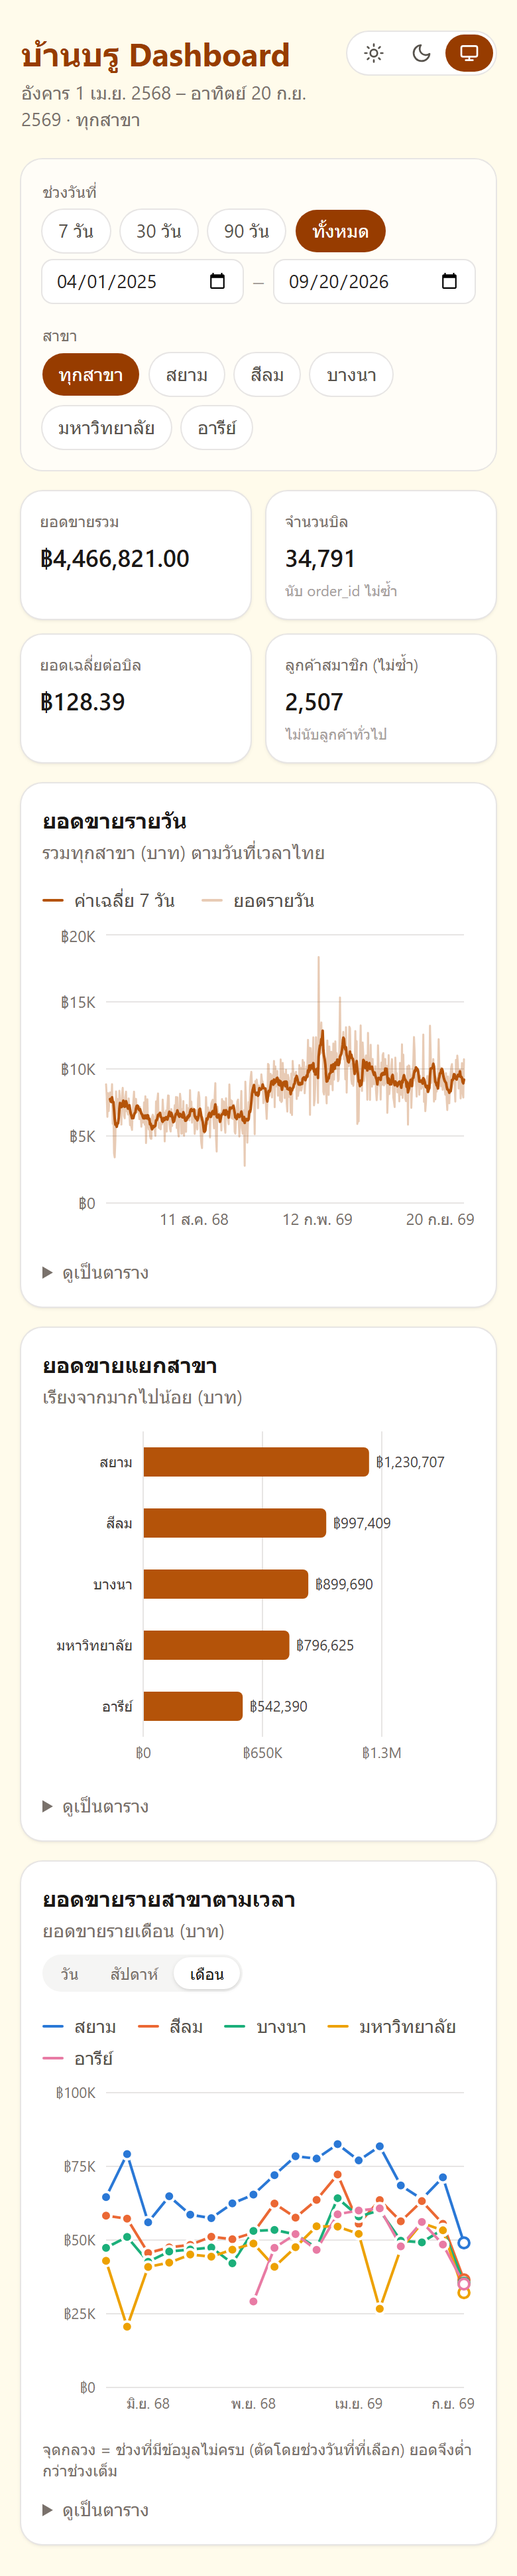
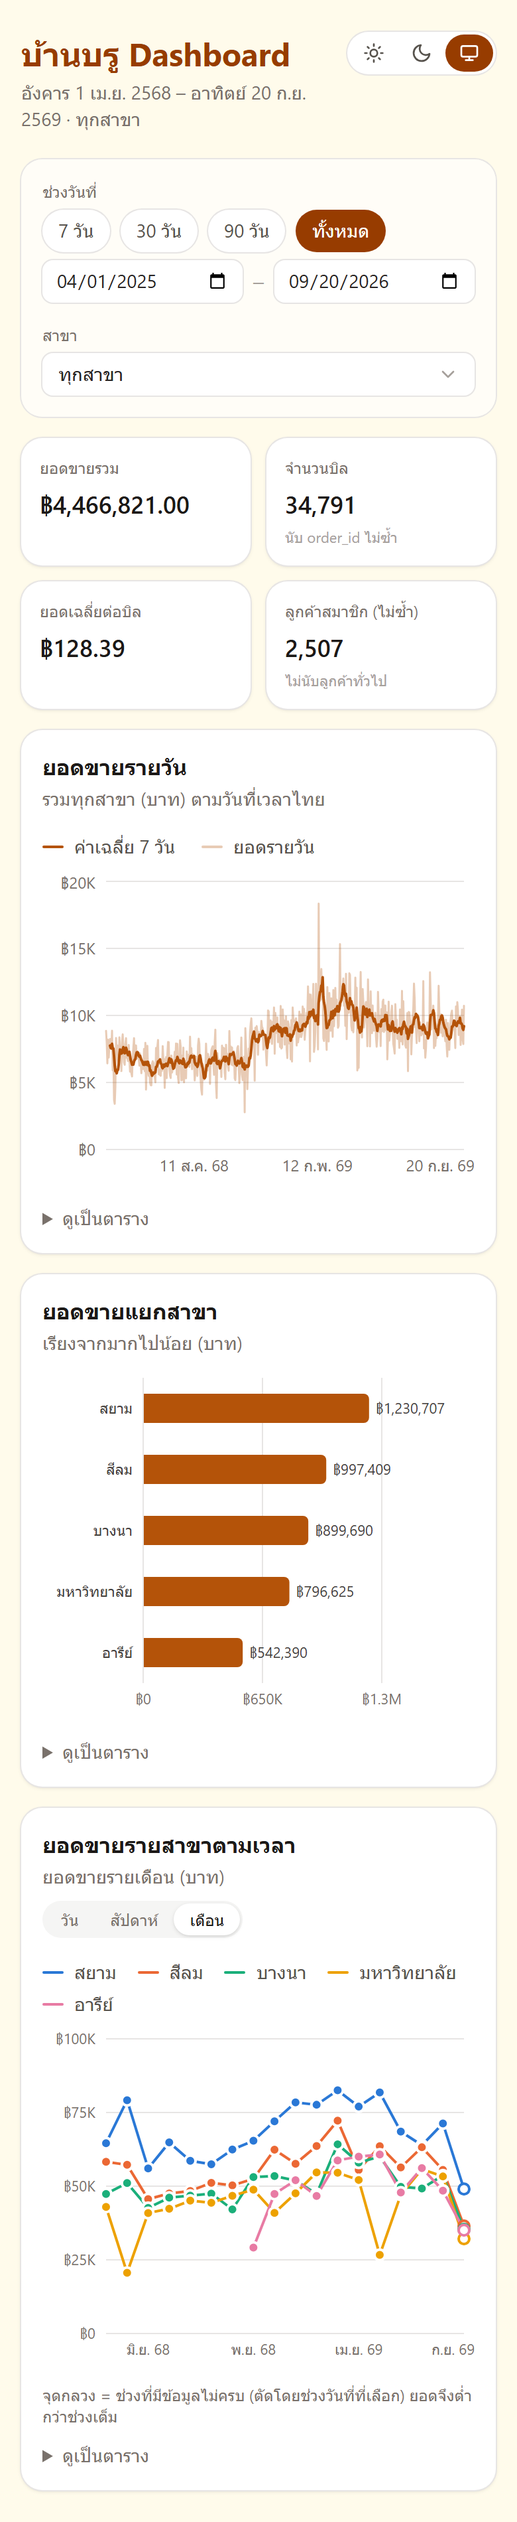
Replace branch filter chips with a multi-select listbox
- New BranchListbox: button shows the selection ("ทุกสาขา",
  "สยาม, สีลม" or "3 สาขา") and opens a checkbox list
- ARIA listbox pattern with aria-multiselectable and
  aria-activedescendant; arrow keys, Space/Enter, Home/End,
  Esc/Tab close, click outside closes
- Colour dot per branch matches its line in the over-time chart
- Selecting every branch collapses back to "ทุกสาขา"
- Refresh README screenshots and feature notes

diff --git a/src/components/BranchListbox.jsx b/src/components/BranchListbox.jsx
@@ -1,0 +1,195 @@
+import { useEffect, useId, useRef, useState } from 'react'
+import { useChartTheme } from '../lib/chartTheme'
+
+// ตัวเลือกสาขาแบบ listbox เลือกได้หลายสาขา (ตามแบบ ARIA listbox + aria-multiselectable)
+// - ปุ่มแสดงสิ่งที่เลือกอยู่ กดแล้วเปิดรายการ
+// - แป้นพิมพ์: ↑/↓ เลื่อน, Space/Enter เลือก/ยกเลิก, Home/End ไปต้น/ท้าย, Esc หรือ Tab ปิด
+// - selected ว่าง = ทุกสาขา
+function BranchListbox({ branches, selected, onChange }) {
+  const id = useId()
+  const theme = useChartTheme()
+  const [open, setOpen] = useState(false)
+  const [active, setActive] = useState(0) // index ใน options (0 = ทุกสาขา)
+  const rootRef = useRef(null)
+  const buttonRef = useRef(null)
+  const listRef = useRef(null)
+
+  const selectedSet = new Set(selected)
+  const options = [{ value: null, label: 'ทุกสาขา' }, ...branches.map((b) => ({ value: b, label: b }))]
+  const isSelected = (opt) => (opt.value === null ? selected.length === 0 : selectedSet.has(opt.value))
+  const optionId = (i) => `${id}-opt-${i}`
+
+  const summary =
+    selected.length === 0 ? 'ทุกสาขา' : selected.length <= 2 ? selected.join(', ') : `${selected.length} สาขา`
+
+  const toggle = (opt) => {
+    if (opt.value === null) return onChange([])
+    const next = new Set(selectedSet)
+    if (next.has(opt.value)) next.delete(opt.value)
+    else next.add(opt.value)
+    // เลือกครบทุกสาขา = เท่ากับ "ทุกสาขา"; เรียงตามลำดับรายชื่อเสมอ
+    onChange(next.size === branches.length ? [] : branches.filter((b) => next.has(b)))
+  }
+
+  const openList = (startAt = 0) => {
+    setActive(startAt)
+    setOpen(true)
+  }
+  const closeList = ({ focusButton = true } = {}) => {
+    setOpen(false)
+    if (focusButton) buttonRef.current?.focus()
+  }
+
+  // เปิดแล้วย้ายโฟกัสไปที่รายการ
+  useEffect(() => {
+    if (open) listRef.current?.focus()
+  }, [open])
+
+  // ให้ตัวเลือกที่ active มองเห็นเสมอ (กรณีรายการยาวจนต้องเลื่อน)
+  useEffect(() => {
+    if (open) document.getElementById(`${id}-opt-${active}`)?.scrollIntoView({ block: 'nearest' })
+  }, [open, active, id])
+
+  // คลิกนอกกล่อง → ปิด
+  useEffect(() => {
+    if (!open) return
+    const onPointerDown = (e) => {
+      if (!rootRef.current?.contains(e.target)) closeList({ focusButton: false })
+    }
+    document.addEventListener('pointerdown', onPointerDown)
+    return () => document.removeEventListener('pointerdown', onPointerDown)
+  }, [open])
+
+  const onButtonKeyDown = (e) => {
+    if (e.key === 'ArrowDown' || e.key === 'ArrowUp') {
+      e.preventDefault()
+      openList(e.key === 'ArrowUp' ? options.length - 1 : 0)
+    }
+  }
+
+  const onListKeyDown = (e) => {
+    const last = options.length - 1
+    switch (e.key) {
+      case 'ArrowDown':
+        e.preventDefault()
+        setActive((i) => Math.min(i + 1, last))
+        break
+      case 'ArrowUp':
+        e.preventDefault()
+        setActive((i) => Math.max(i - 1, 0))
+        break
+      case 'Home':
+        e.preventDefault()
+        setActive(0)
+        break
+      case 'End':
+        e.preventDefault()
+        setActive(last)
+        break
+      case ' ':
+      case 'Enter':
+        e.preventDefault()
+        toggle(options[active])
+        break
+      case 'Escape':
+        e.preventDefault()
+        closeList()
+        break
+      case 'Tab':
+        closeList({ focusButton: false })
+        break
+    }
+  }
+
+  return (
+    <div ref={rootRef} className="relative w-full sm:w-64">
+      <button
+        ref={buttonRef}
+        type="button"
+        aria-haspopup="listbox"
+        aria-expanded={open}
+        aria-controls={`${id}-list`}
+        aria-label={`สาขา: ${summary}`}
+        onClick={() => (open ? closeList() : openList())}
+        onKeyDown={onButtonKeyDown}
+        className="flex w-full items-center justify-between gap-2 rounded-lg bg-white px-3 py-1.5 text-left text-sm text-stone-800 ring-1 ring-stone-200 hover:bg-stone-50 focus:outline-none focus-visible:ring-2 focus-visible:ring-amber-700 dark:bg-stone-900 dark:text-stone-100 dark:ring-stone-700 dark:hover:bg-stone-800 dark:focus-visible:ring-amber-600"
+      >
+        <span className="truncate">{summary}</span>
+        <svg
+          width="16"
+          height="16"
+          viewBox="0 0 24 24"
+          fill="none"
+          stroke="currentColor"
+          strokeWidth="2"
+          strokeLinecap="round"
+          strokeLinejoin="round"
+          aria-hidden="true"
+          className={`shrink-0 text-stone-400 transition-transform ${open ? 'rotate-180' : ''}`}
+        >
+          <path d="m6 9 6 6 6-6" />
+        </svg>
+      </button>
+
+      {open && (
+        <ul
+          ref={listRef}
+          id={`${id}-list`}
+          role="listbox"
+          aria-label="เลือกสาขา"
+          aria-multiselectable="true"
+          aria-activedescendant={optionId(active)}
+          tabIndex={-1}
+          onKeyDown={onListKeyDown}
+          className="absolute z-20 mt-1 max-h-72 w-full overflow-auto rounded-lg bg-white py-1 text-sm shadow-lg ring-1 ring-stone-200 focus:outline-none dark:bg-stone-800 dark:shadow-black/40 dark:ring-stone-700"
+        >
+          {options.map((opt, i) => {
+            const checked = isSelected(opt)
+            return (
+              <li
+                key={opt.label}
+                id={optionId(i)}
+                role="option"
+                aria-selected={checked}
+                onPointerMove={() => setActive(i)}
+                onClick={() => {
+                  setActive(i)
+                  toggle(opt)
+                }}
+                className={`flex cursor-pointer items-center gap-2.5 px-3 py-2 ${
+                  i === active ? 'bg-stone-100 dark:bg-stone-700' : ''
+                } ${i === 0 ? 'border-b border-stone-100 dark:border-stone-700' : ''}`}
+              >
+                <span
+                  aria-hidden="true"
+                  className={`flex size-4 shrink-0 items-center justify-center rounded border ${
+                    checked
+                      ? 'border-amber-800 bg-amber-800 text-white dark:border-amber-600 dark:bg-amber-600 dark:text-stone-950'
+                      : 'border-stone-300 dark:border-stone-500'
+                  }`}
+                >
+                  {checked && (
+                    <svg width="12" height="12" viewBox="0 0 24 24" fill="none" stroke="currentColor" strokeWidth="3.5">
+                      <path d="M5 12.5 10 17.5 19 7" strokeLinecap="round" strokeLinejoin="round" />
+                    </svg>
+                  )}
+                </span>
+                {opt.value !== null && (
+                  // สีเดียวกับเส้นของสาขานี้ในกราฟ "ยอดขายรายสาขาตามเวลา"
+                  <span
+                    aria-hidden="true"
+                    className="size-2 shrink-0 rounded-full"
+                    style={{ background: theme.categorical(i - 1) }}
+                  />
+                )}
+                <span className="text-stone-800 dark:text-stone-100">{opt.label}</span>
+              </li>
+            )
+          })}
+        </ul>
+      )}
+    </div>
+  )
+}
+
+export default BranchListbox

diff --git a/src/components/FilterBar.jsx b/src/components/FilterBar.jsx
@@ -1,4 +1,5 @@
 import { presetRange } from '../lib/metrics'
+import BranchListbox from './BranchListbox'
 
 const PRESETS = [
   { days: 7, label: '7 วัน' },
@@ -30,21 +31,12 @@ function Group({ label, children }) {
 // onChange(patch) รับเฉพาะค่าที่เปลี่ยน
 function FilterBar({ bounds, branches, filters, onChange }) {
   const { from, to } = filters
-  const selected = new Set(filters.branches)
   const set = onChange
 
   const activePreset = PRESETS.find((p) => {
     const r = presetRange(bounds, p.days)
     return r.from === from && r.to === to
   })
-
-  const toggleBranch = (b) => {
-    const next = new Set(selected)
-    if (next.has(b)) next.delete(b)
-    else next.add(b)
-    // เลือกครบทุกสาขา = เท่ากับ "ทุกสาขา"
-    set({ branches: next.size === branches.length ? [] : branches.filter((x) => next.has(x)) })
-  }
 
   // ถ้าผู้ใช้เลือกวันเริ่มหลังวันสิ้นสุด (หรือกลับกัน) ให้ขยับอีกฝั่งตาม ช่วงจะได้ไม่ว่าง
   const setFrom = (v) => v && set({ from: v, to: v > to ? v : to })
@@ -96,27 +88,7 @@ function FilterBar({ bounds, branches, filters, onChange }) {
       </Group>
 
       <Group label="สาขา">
-        <div className="flex flex-wrap gap-2">
-          <button
-            type="button"
-            aria-pressed={selected.size === 0}
-            className={chip(selected.size === 0)}
-            onClick={() => set({ branches: [] })}
-          >
-            ทุกสาขา
-          </button>
-          {branches.map((b) => (
-            <button
-              key={b}
-              type="button"
-              aria-pressed={selected.has(b)}
-              className={chip(selected.has(b))}
-              onClick={() => toggleBranch(b)}
-            >
-              {b}
-            </button>
-          ))}
-        </div>
+        <BranchListbox branches={branches} selected={filters.branches} onChange={(next) => set({ branches: next })} />
       </Group>
 
       {!isDefault && (

diff --git a/README.md b/README.md
@@ -63,7 +63,7 @@ npm run dev
 
 **ตัวกรอง**
 - ช่วงวันที่: ปุ่มลัด 7 / 30 / 90 วัน / ทั้งหมด หรือเลือกวันเอง
-- สาขา: เลือกได้หลายสาขา
+- สาขา: listbox เลือกได้หลายสาขา (มีจุดสีตรงกับเส้นในกราฟรายสาขา) ใช้แป้นพิมพ์ได้ครบ: ↑/↓, Space/Enter, Home/End, Esc
 - ตัวกรองมีผลกับ KPI และกราฟทุกตัวพร้อมกัน
 - ตัวกรองถูกเก็บใน URL จึงรีเฟรชหรือแชร์ลิงก์ได้ และกดปุ่ม Back ของเบราว์เซอร์ย้อนได้ทีละขั้น
   ตัวอย่าง: `/?from=2026-08-22&branch=สยาม&branch=สีลม&g=week`
